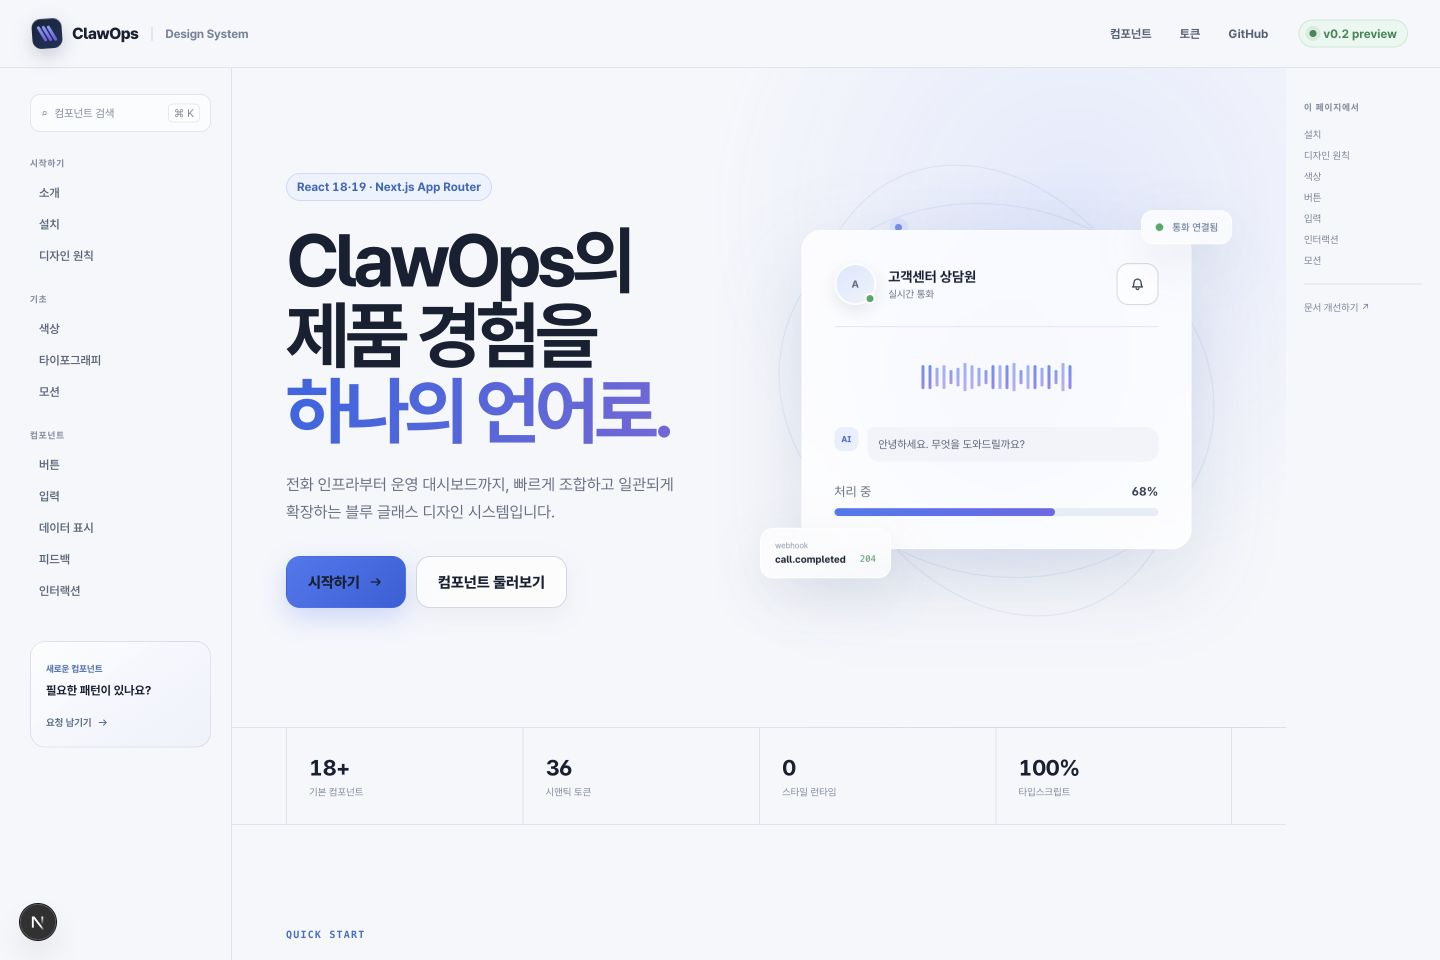
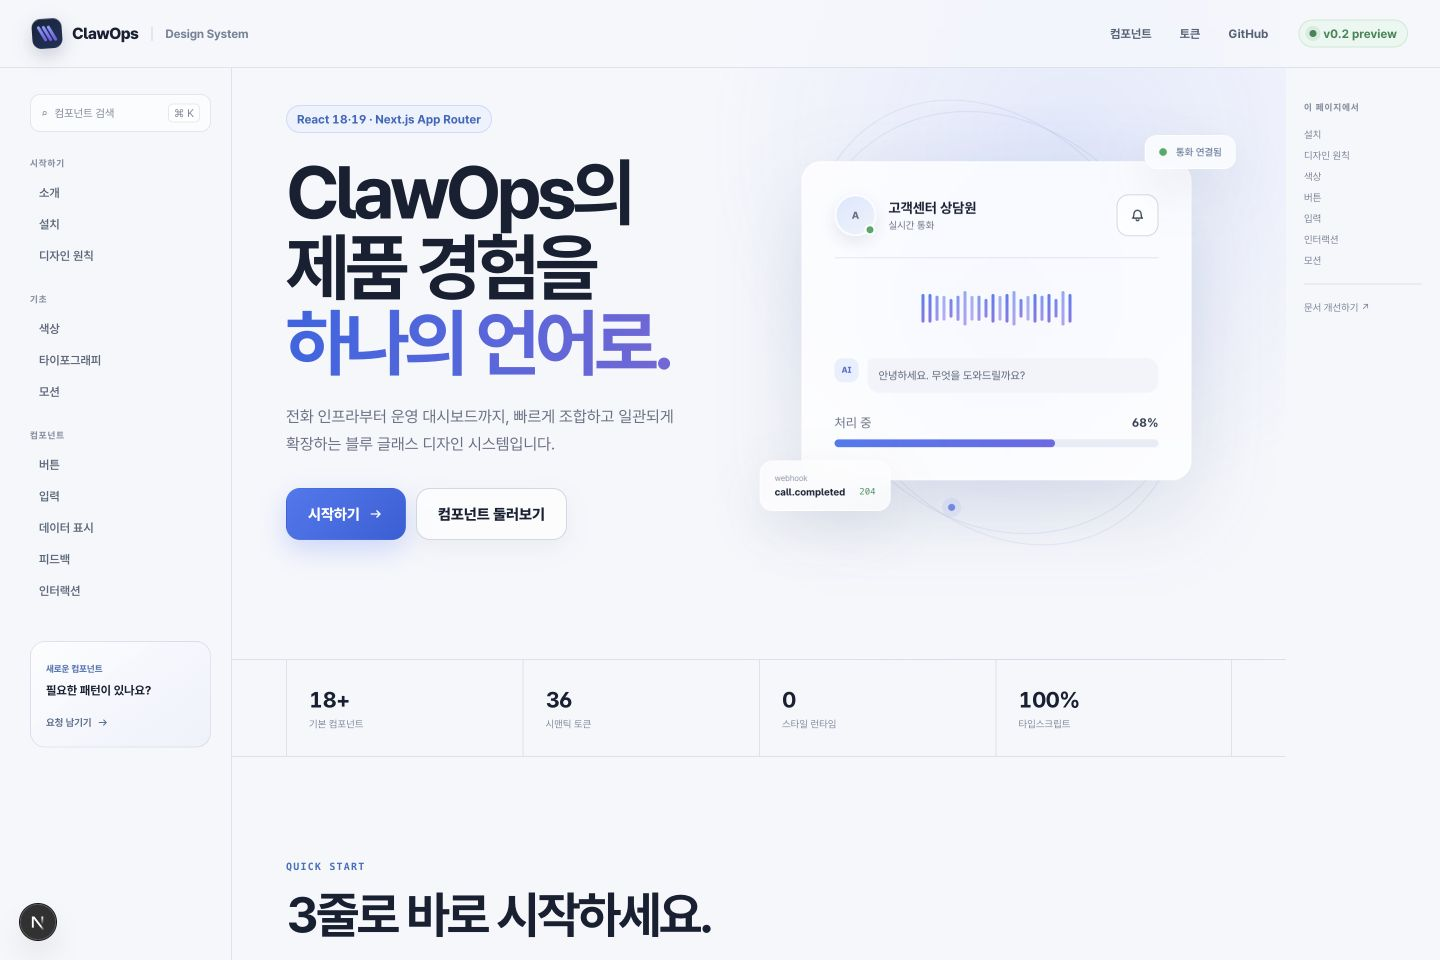
fix(docs): improve primary CTA contrast

diff --git a/examples/next-app/app/page.css b/examples/next-app/app/page.css
@@ -248,6 +248,9 @@ svg {
   gap: 10px;
   margin-top: 30px;
 }
+.docs-hero-actions a.co-button--accent {
+  color: #fff;
+}
 .docs-hero-actions svg {
   width: 16px;
 }
